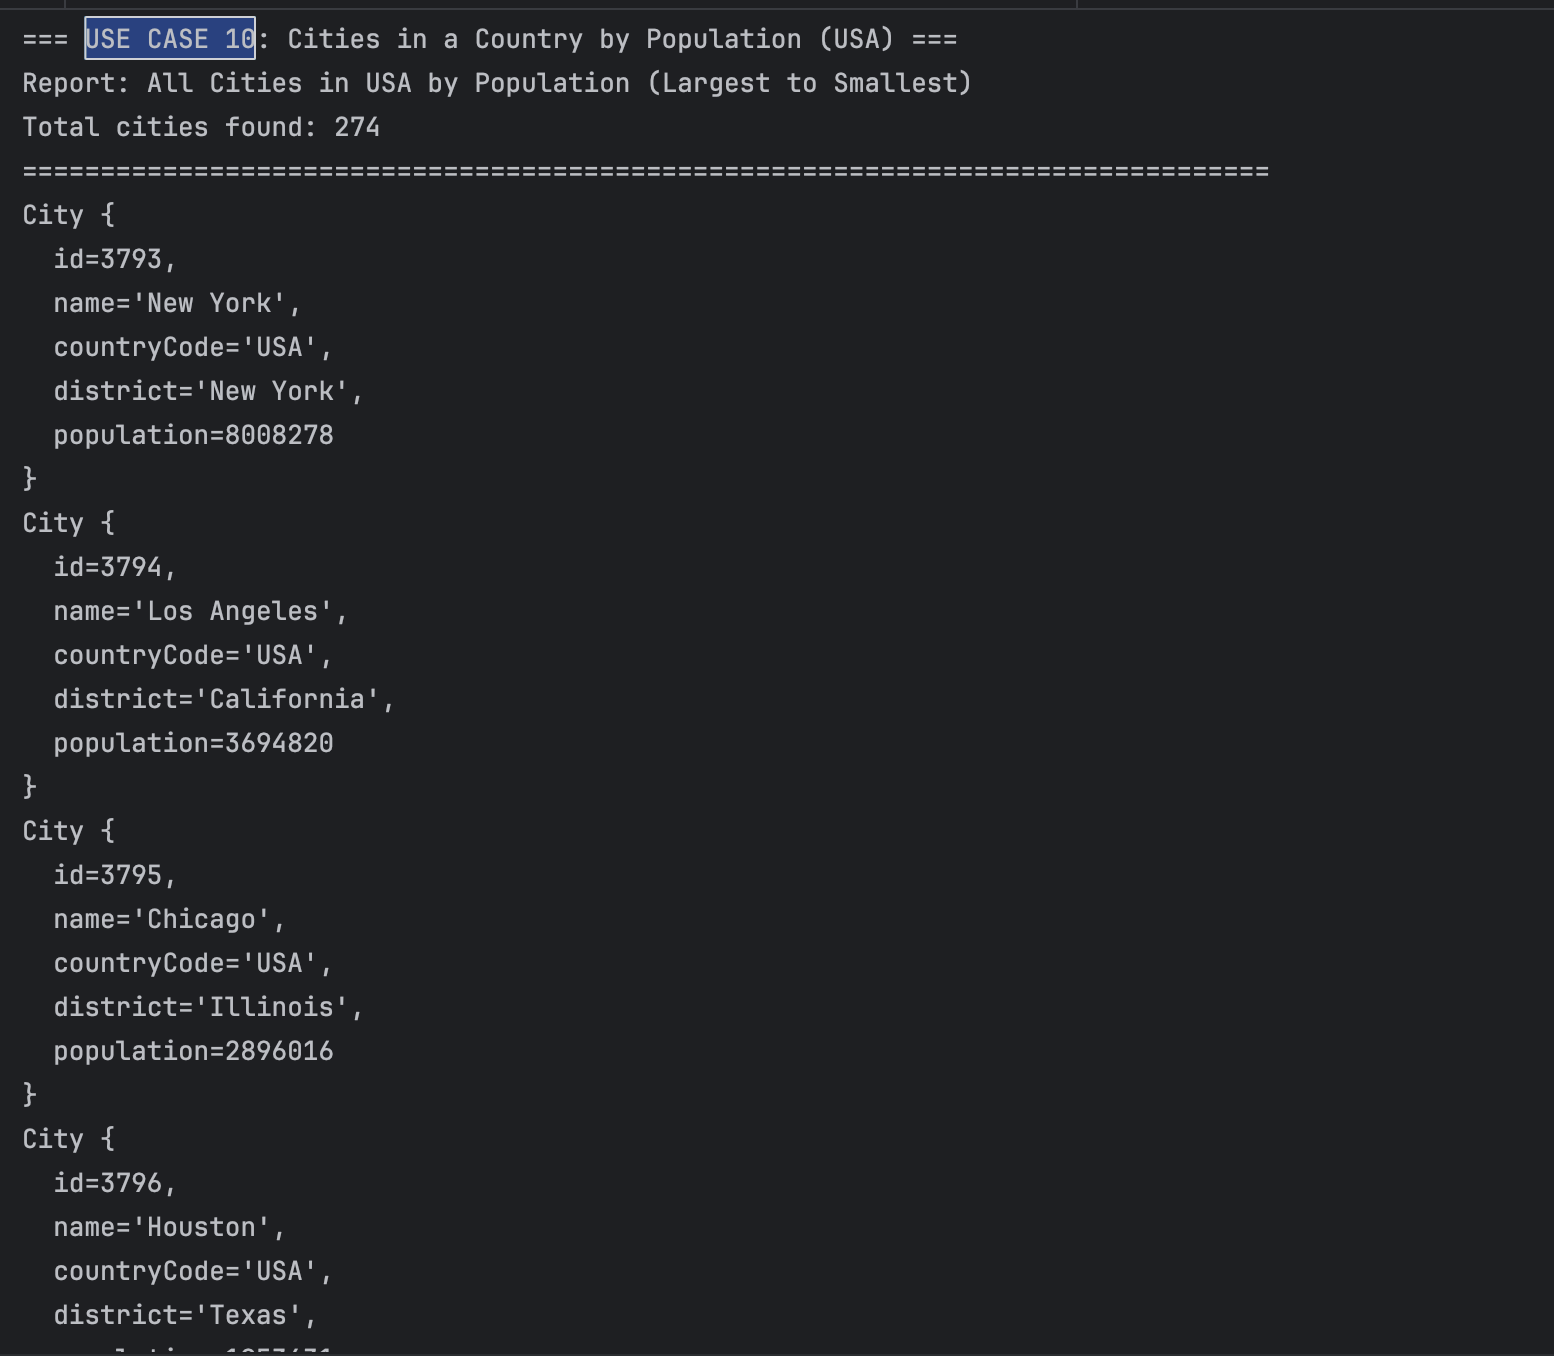
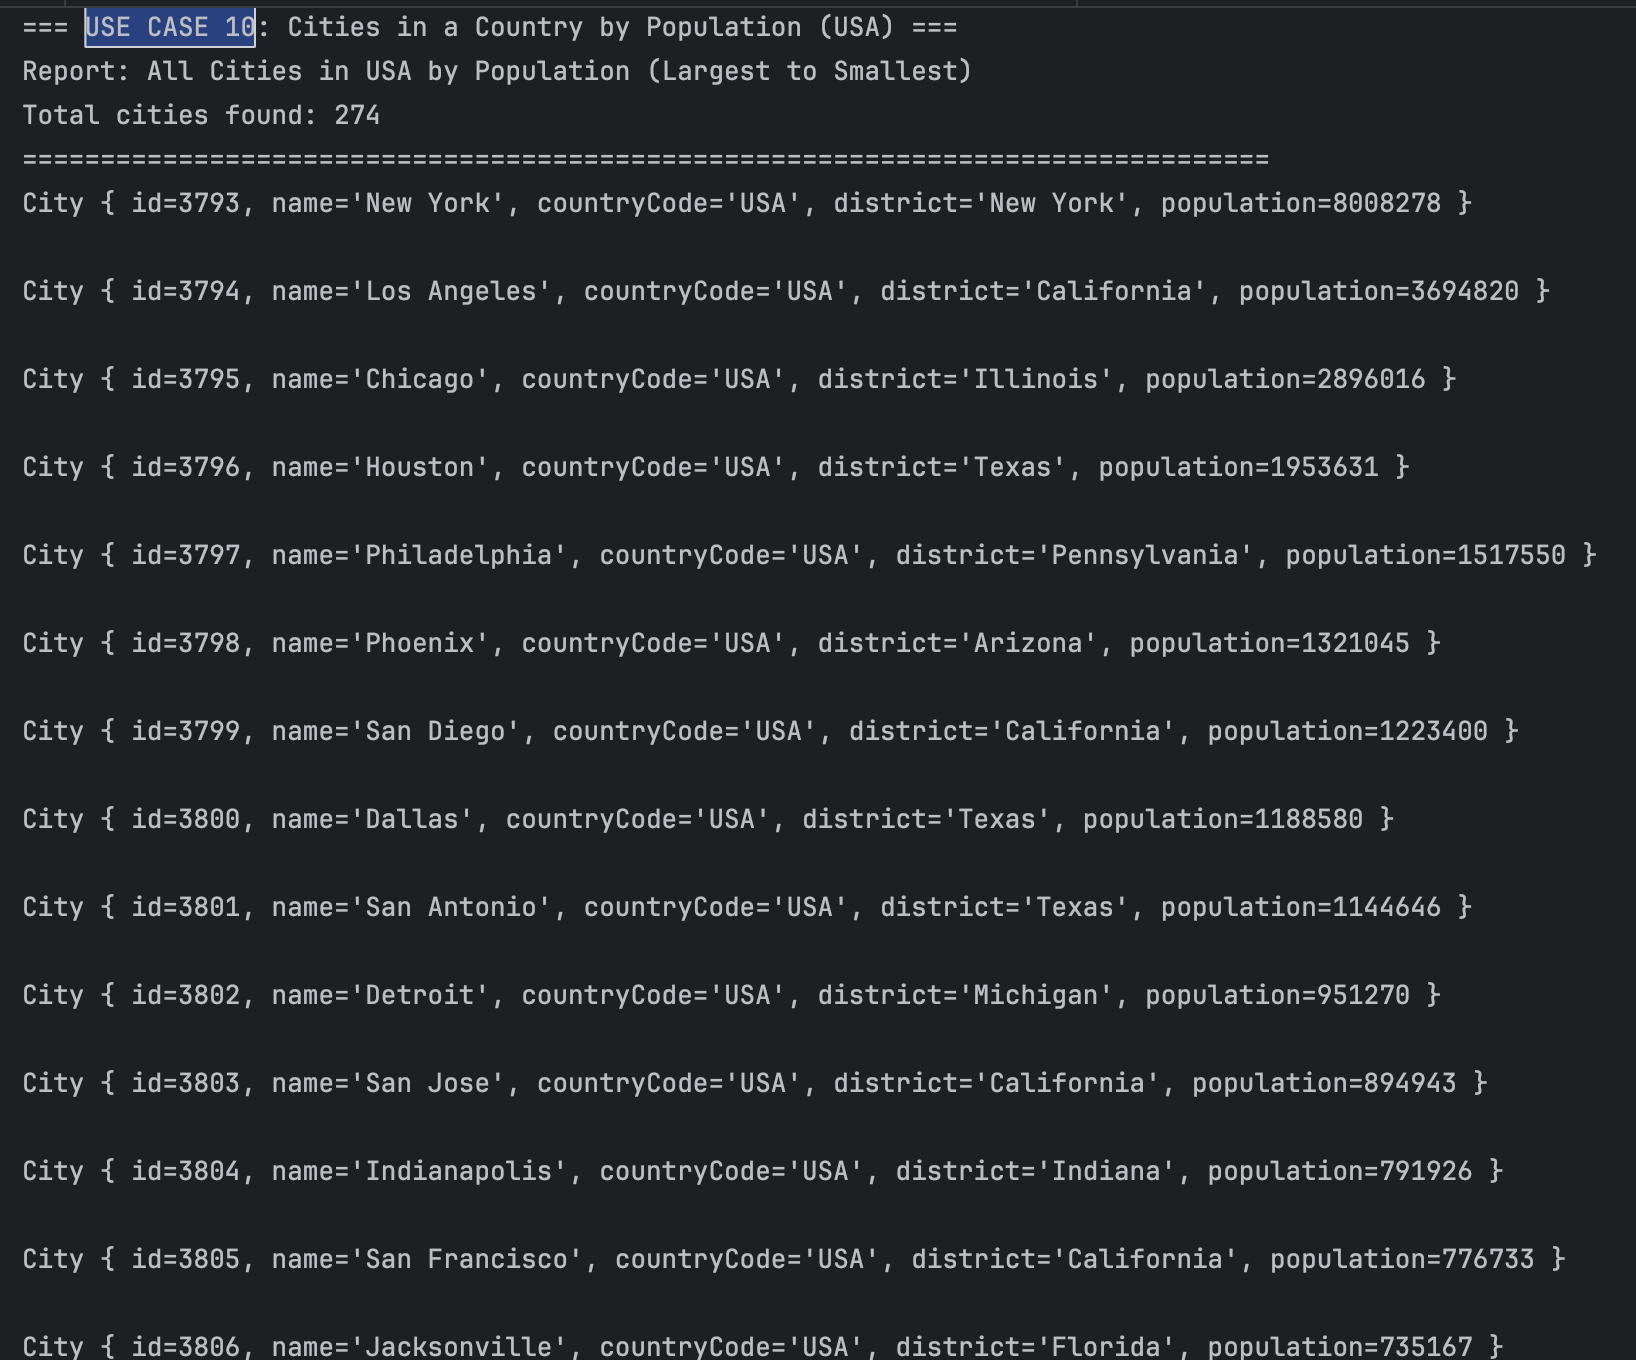
feature/use-case-7-12 | modified format output

diff --git a/src/main/java/com/napier/devops/City.java b/src/main/java/com/napier/devops/City.java
@@ -74,12 +74,6 @@ public class City {
 
     @Override
     public String toString() {
-        return "City {\n" +
-                "  id=" + id + ",\n" +
-                "  name='" + name + "',\n" +
-                "  countryCode='" + countryCode + "',\n" +
-                "  district='" + district + "',\n" +
-                "  population=" + population + "\n" +
-                '}';
+        return "City { id=" + id + ", name='" + name + "', countryCode='" + countryCode + "', district='" + district + "', population=" + population + " }\n";
     }
 }

diff --git a/Readme.md b/Readme.md
@@ -124,7 +124,7 @@ The following are in place:
 | 9  |Cities in a Region by Population (Western Europe) | ✅ | ![all countries organized by population descending](screenshots/use-case-9.png) |
 | 10  |Cities in a Country by Population (USA) | ✅ | ![all countries organized by population descending](screenshots/use-case-10.png) |
 | 11  |Cities in a District by Population (California) | ✅ | ![all countries organized by population descending](screenshots/use-case-11.png) |
-| 11  |Top N Cities in the World by Population (N=10) | ✅ | ![all countries organized by population descending](screenshots/use-case-12.png) |
+| 12  |Top N Cities in the World by Population (N=10) | ✅ | ![all countries organized by population descending](screenshots/use-case-12.png) |
 
 
 
